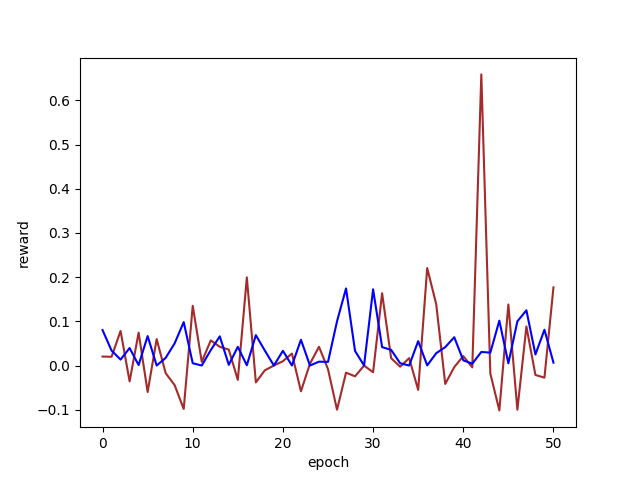
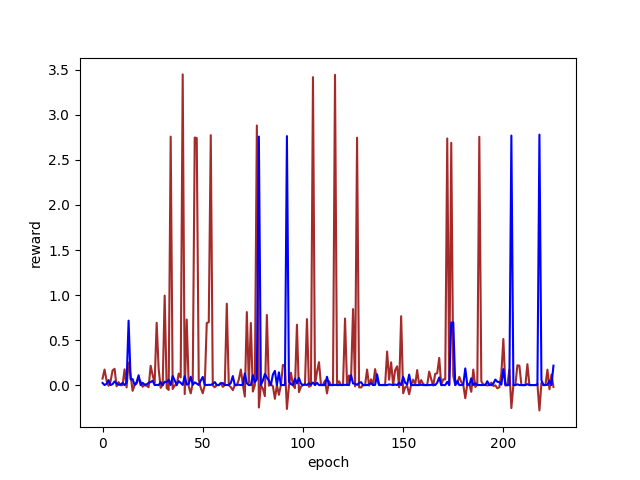
add negative reward if agent collides with wall and update dqn-result.png

diff --git a/deepcow/agent.py b/deepcow/agent.py
@@ -19,10 +19,9 @@ class State(object):
     def __init__(self, agent: 'Agent', perception: np.ndarray) -> None:
         super().__init__()
         self.position = np.array(agent.position)
-        self.velocity = np.array(agent.velocity)
         self.direction = np.array(agent.direction)
-        self.perception = perception
         self.velocity = np.array(agent.velocity) / agent.max_speed
+        self.perception = perception
 
 
 class Entity(object):
@@ -228,15 +227,19 @@ class Agent(Entity):
         up_distance = pos.y - r
         down_distance = GAME_HEIGHT - (pos.y + r)
         if right_distance < 0:
+            self.reward -= 0.1
             pos.x += right_distance
             vel.x *= -1
         elif left_distance < 0:
+            self.reward -= 0.1
             pos.x -= left_distance
             vel.x *= -1
         if up_distance < 0:
+            self.reward -= 0.1
             pos.y -= up_distance
             vel.y *= -1
         elif down_distance < 0:
+            self.reward -= 0.1
             pos.y += down_distance
             vel.y *= -1
 
